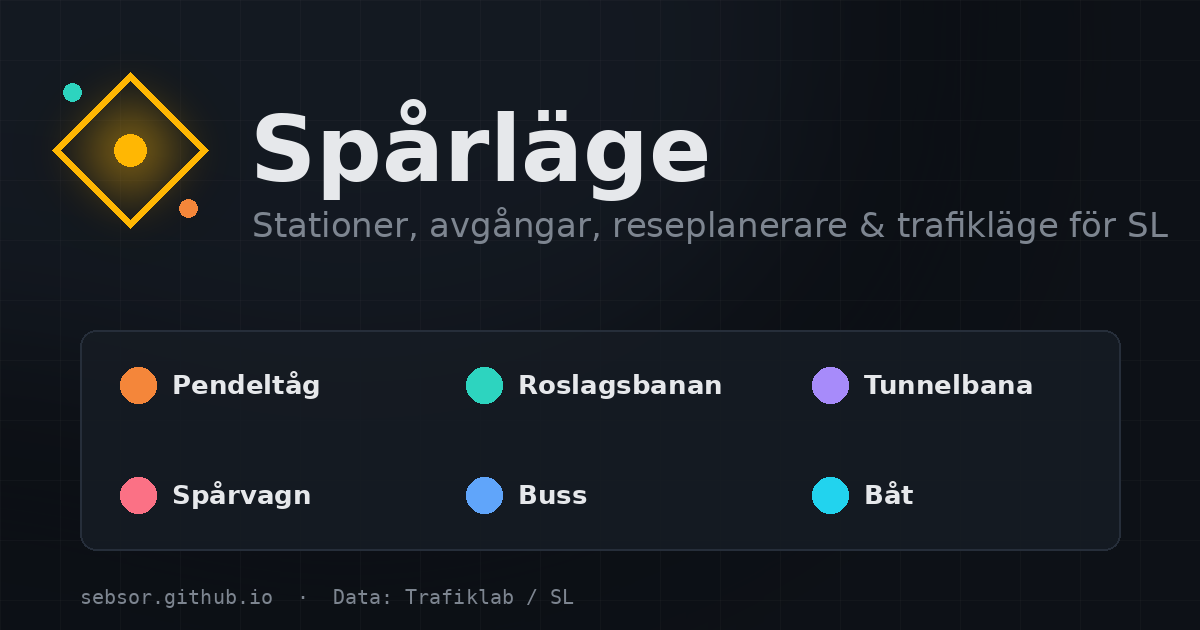
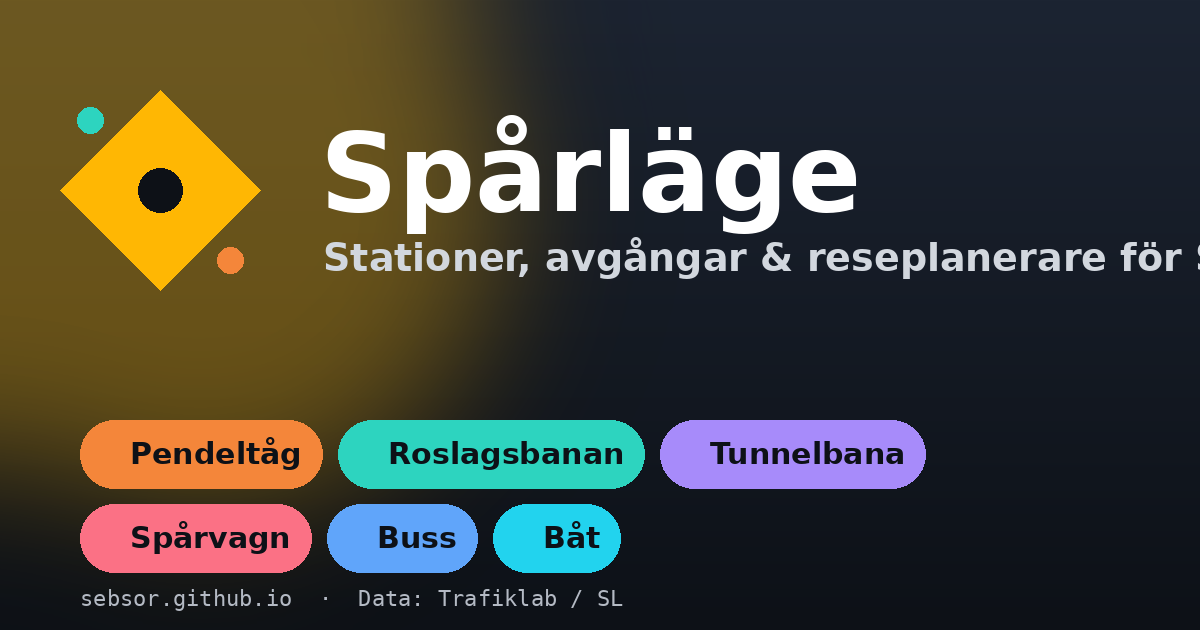
Add files via upload

diff --git a/app.js b/app.js
@@ -1423,25 +1423,35 @@ function buildJourneyShareUrl(from, to) {
 // Encodes the exact selected itinerary — not the search criteria — so the
 // recipient sees precisely which train/bus and which times were chosen,
 // unaffected by schedule changes or different results on a later search.
-// Deliberately minimal fields only (not the full ResRobot response, and
-// not each leg's intermediate stop list from passlist) to keep the URL a
-// reasonable length for pasting into chat apps; the shared trip's map tab
-// falls back to a straight origin-to-destination line per leg rather than
-// following intermediate stops, same as the "coordinates unavailable" case
-// already handled in renderTripMap().
+// Kept deliberately minimal: short keys, and no lat/lon (only used by the
+// trip's optional map tab, not the itinerary — a shared trip's map falls
+// back to the same "no map data" state already used when ResRobot doesn't
+// provide coordinates). Long URLs were confirmed live to fail to generate
+// a link preview in chat apps at all — this keeps the link short enough
+// to actually unfurl, which matters more here than the map tab working.
 function buildTripShareUrl(trip) {
+  if (!window.LZString) {
+    console.error('[share] lz-string did not load — check network/CDN access');
+    alert('Kunde inte skapa delningslänk (ett skript kunde inte laddas). Se konsolen.');
+    return location.href;
+  }
   const legs = ((trip.LegList && trip.LegList.Leg) || []).map(leg => ({
-    type: leg.type,
-    name: leg.name,
-    dist: leg.dist,
-    duration: leg.duration,
-    Product: leg.Product && leg.Product.map(p => ({ catCode: p.catCode, displayNumber: p.displayNumber, line: p.line })),
-    Origin: leg.Origin && { name: leg.Origin.name, time: leg.Origin.time, lat: leg.Origin.lat, lon: leg.Origin.lon, track: leg.Origin.track },
-    Destination: leg.Destination && { name: leg.Destination.name, time: leg.Destination.time, lat: leg.Destination.lat, lon: leg.Destination.lon, track: leg.Destination.track },
+    t: leg.type,
+    n: leg.name,
+    d: leg.dist,
+    u: leg.duration,
+    p: leg.Product && leg.Product.map(p => ({ c: p.catCode, l: p.displayNumber || p.line })),
+    o: leg.Origin && { n: leg.Origin.name, t: leg.Origin.time, k: leg.Origin.track },
+    e: leg.Destination && { n: leg.Destination.name, t: leg.Destination.time, k: leg.Destination.track },
   }));
   const url = new URL(location.href);
   url.search = '';
-  const payload = btoa(unescape(encodeURIComponent(JSON.stringify({ duration: trip.duration, legs }))));
+  // lz-string's compressToEncodedURIComponent is already URL-safe (no
+  // further encodeURIComponent/base64 needed) and roughly halves the size
+  // again on top of the short keys above — confirmed live this was
+  // necessary: the earlier plain-base64 version produced URLs long enough
+  // that chat apps silently declined to generate a link preview at all.
+  const payload = LZString.compressToEncodedURIComponent(JSON.stringify({ u: trip.duration, l: legs }));
   url.searchParams.set('trip', payload);
   return url.toString();
 }
@@ -1479,8 +1489,24 @@ function parseDeepLink() {
   }
   if (params.has('trip')) {
     try {
-      const decoded = JSON.parse(decodeURIComponent(escape(atob(params.get('trip')))));
-      if (Array.isArray(decoded.legs) && decoded.legs.length) return { type: 'trip', duration: decoded.duration, legs: decoded.legs };
+      const json = LZString.decompressFromEncodedURIComponent(params.get('trip'));
+      const decoded = JSON.parse(json);
+      if (Array.isArray(decoded.l) && decoded.l.length) {
+        // Expand the compact share-payload shape back into what
+        // renderTripCard()/renderTripDetail()/renderLegChip() already
+        // expect (ResRobot's own field names), so none of that rendering
+        // code needs to know or care this came from a share link.
+        const legs = decoded.l.map(leg => ({
+          type: leg.t,
+          name: leg.n,
+          dist: leg.d,
+          duration: leg.u,
+          Product: leg.p && leg.p.map(p => ({ catCode: p.c, displayNumber: p.l })),
+          Origin: leg.o && { name: leg.o.n, time: leg.o.t, track: leg.o.k },
+          Destination: leg.e && { name: leg.e.n, time: leg.e.t, track: leg.e.k },
+        }));
+        return { type: 'trip', duration: decoded.u, legs };
+      }
     } catch (err) {
       console.warn('[deep-link] could not parse ?trip= payload', err);
     }

diff --git a/index.html b/index.html
@@ -40,7 +40,7 @@
 </head>
 <body>
 
-<span id="app-version">v18</span>
+<span id="app-version">v19</span>
 <div id="offline-banner" hidden>📡 Du är offline — visar cachad data där det går</div>
 
 <!-- Start screen: choose map view or journey planner before anything loads -->
@@ -233,6 +233,7 @@
 <script src="https://cdnjs.cloudflare.com/ajax/libs/protobufjs/8.0.2/protobuf.min.js"></script>
 <script src="https://cdnjs.cloudflare.com/ajax/libs/jszip/3.10.1/jszip.min.js"></script>
 <script src="https://cdnjs.cloudflare.com/ajax/libs/PapaParse/5.5.4/papaparse.min.js"></script>
-<script src="app.js?v=41"></script>
+<script src="https://cdnjs.cloudflare.com/ajax/libs/lz-string/1.5.0/lz-string.min.js"></script>
+<script src="app.js?v=42"></script>
 </body>
 </html>

diff --git a/sw.js b/sw.js
@@ -1,5 +1,5 @@
 const CACHE = 'sparlage-v2';
-const SHELL = ['./', './index.html', './style.css?v=32', './app.js?v=41', './manifest.json', './icon.svg'];
+const SHELL = ['./', './index.html', './style.css?v=32', './app.js?v=42', './manifest.json', './icon.svg'];
 
 self.addEventListener('install', (event) => {
   event.waitUntil(caches.open(CACHE).then(cache => cache.addAll(SHELL)));